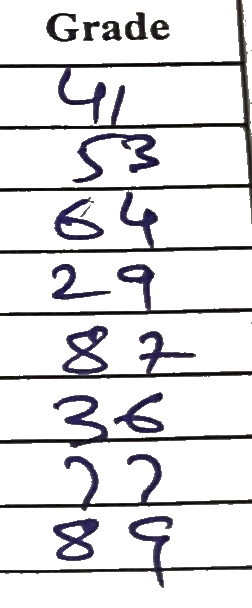
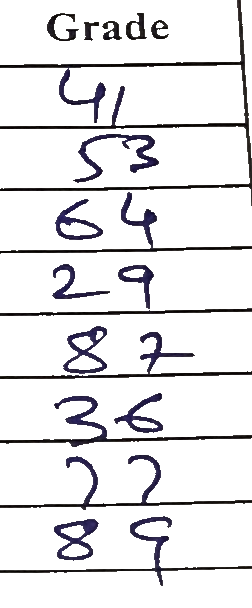
some chagnegs;

diff --git a/text-image-processing/handwritten_image_processor.py b/text-image-processing/handwritten_image_processor.py
@@ -93,7 +93,7 @@ class HandWrittenImageProcessor:
                 right_cropper.crop_image()
 
 if __name__ == "__main__":
-    input_image_path = '/Users/vansh/PycharmProjects/Text-Extractor/last-column-extraction/blue_pen_stroke.jpg'
+    input_image_path = '/Users/vansh/PycharmProjects/Text-Extractor/last-column-extraction/output_image.png'
     processor = HandWrittenImageProcessor(input_image_path)
 
     # Apply the processing steps
@@ -102,4 +102,4 @@ if __name__ == "__main__":
     processor.apply_denoiser()
     processor.apply_horizontal_section_extractor("/Users/vansh/PycharmProjects/Text-Extractor/text-image-processing/processed_image/result_denoised.jpg")
     processor.apply_digit_processor("/Users/vansh/PycharmProjects/Text-Extractor/text-image-processing/processed_image/horizontal_digit")
-    processor.add_padding("/Users/vansh/PycharmProjects/Text-Extractor/text-image-processing/processed_image/single_digit",'/Users/vansh/PycharmProjects/Text-Extractor/text-image-processing/processed_image/single_digit_final',4)
+    #$processor.add_padding("/Users/vansh/PycharmProjects/Text-Extractor/text-image-processing/processed_image/single_digit",'/Users/vansh/PycharmProjects/Text-Extractor/text-image-processing/processed_image/single_digit_final',4)

diff --git a/main.py b/main.py
@@ -45,8 +45,8 @@ def predict_single_digit(model_path, image_path):
         return None
 
 # Usage example:
-model_path = '/Users/vansh/Downloads/cnn-mnist-new (1).h5'  # Replace with your model path
-image_dir = '/Users/vansh/PycharmProjects/Text-Extractor/text-image-processing/processed_image/single_digit_final'
+model_path = '/Users/vansh/Downloads/cnn-mnist-new.h5'  # Replace with your model path
+image_dir = '/Users/vansh/PycharmProjects/Text-Extractor/text-image-processing/text-image-processing/processed_image/single_digit_padding'
 
 for image_filename in os.listdir(image_dir):
     image_path = os.path.join(image_dir, image_filename)

diff --git a/last-column-extraction/white_last_column.py b/last-column-extraction/white_last_column.py
@@ -25,4 +25,4 @@ def process_image(input_image_path, output_image_path=None, threshold=80):
         cv2.waitKey(0)
         cv2.destroyAllWindows()
 
-process_image("/Users/vansh/PycharmProjects/Text-Extractor/images/handwritten_img/Screenshot 2023-10-14 at 10.48.19 AM.png","/Users/vansh/PycharmProjects/Text-Extractor/last-column-extraction/white_image.png",115)
+process_image("/Users/vansh/PycharmProjects/Text-Extractor/images/handwritten_img/Screenshot 2023-10-14 at 10.48.19 AM.png","/Users/vansh/PycharmProjects/Text-Extractor/last-column-extraction/white_image.png",65)
